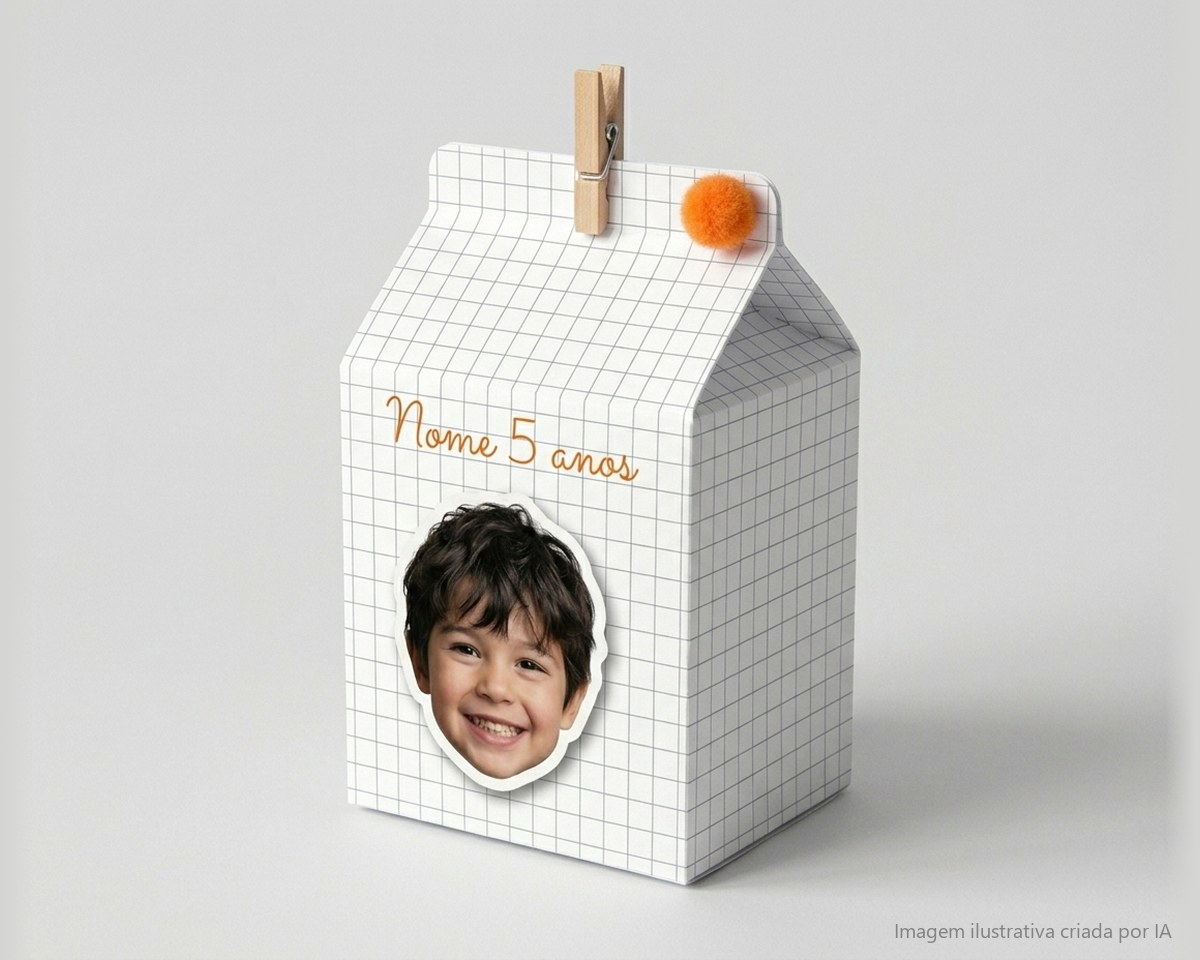
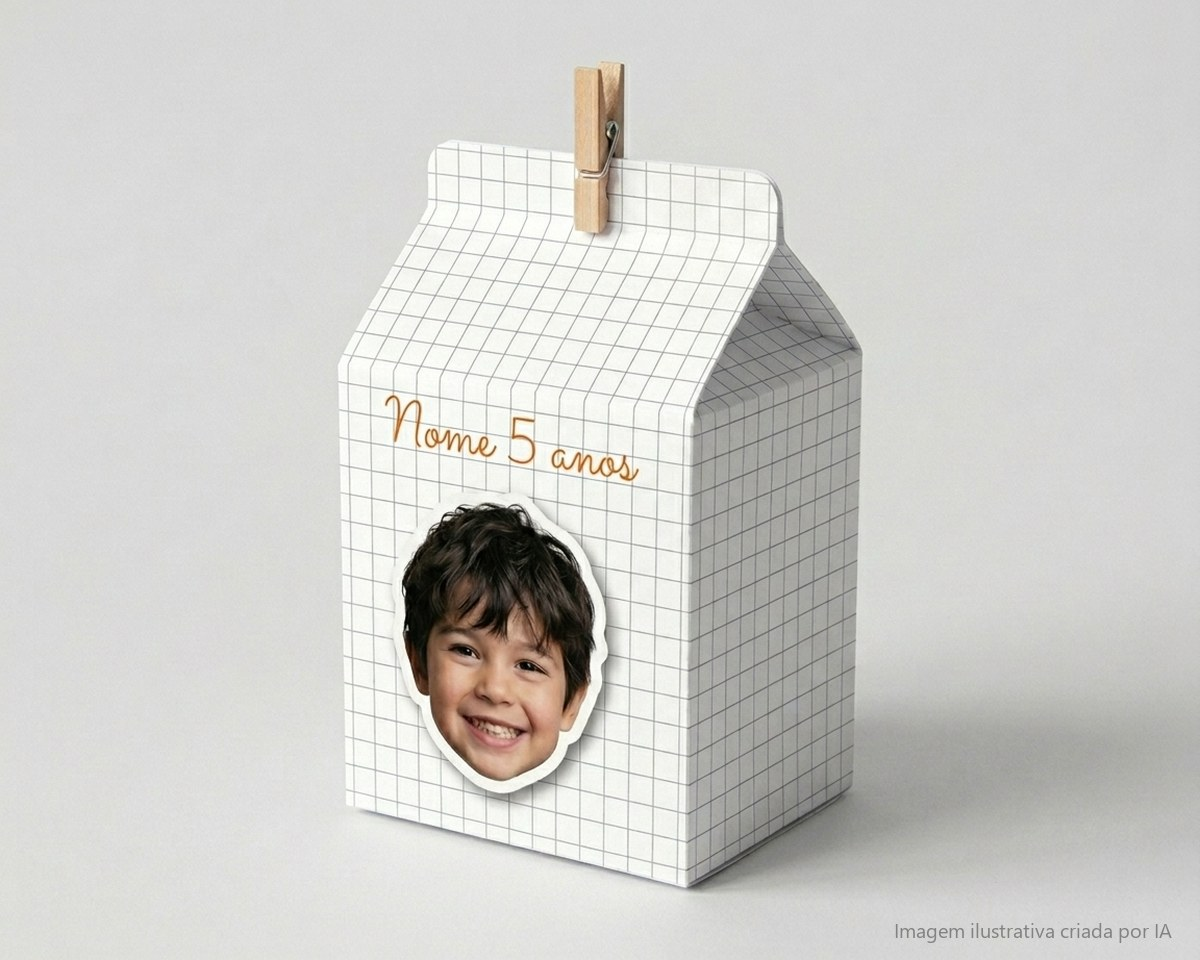
Caixa Milk no Quadriculado: foto nova, sem o pompom

diff --git a/index.html b/index.html
@@ -1216,7 +1216,7 @@ const FAIXAS = [
    ilustração (veja fotos/LEIA-ME.txt). Enquanto o arquivo não existir, o site mostra a ilustração. */
 /* Versão das fotos: quando trocar uma foto, mude este número para os navegadores baixarem a nova na hora,
    em vez de mostrarem a antiga que ficou guardada */
-const FOTOS_VERSAO = '2026-10-18d';
+const FOTOS_VERSAO = '2026-10-18e';
 const FOTO = {
   topo:    `fotos/topo.jpg?v=${FOTOS_VERSAO}`,
   historia:`fotos/historia.jpg?v=${FOTOS_VERSAO}`,
